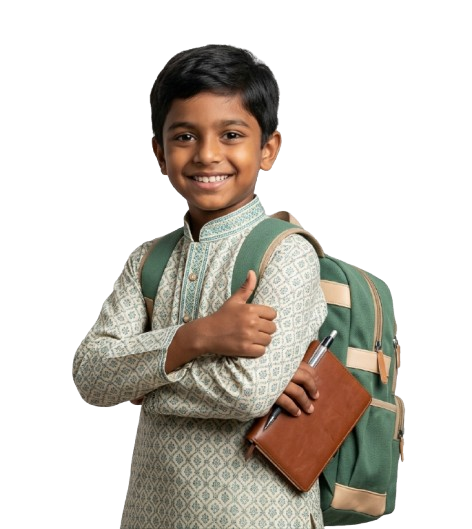
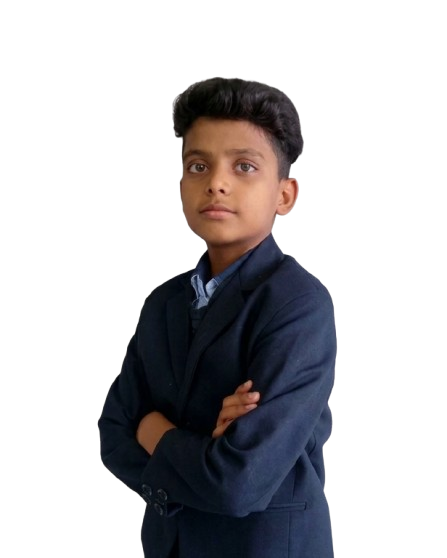
add social media handles and change png

diff --git a/src/components/Location.jsx b/src/components/Location.jsx
@@ -1,4 +1,10 @@
-import { FaPhoneAlt, FaEnvelope, FaMapMarkerAlt } from "react-icons/fa";
+import {
+  FaPhoneAlt,
+  FaEnvelope,
+  FaMapMarkerAlt,
+  FaInstagram,
+  FaFacebookF,
+} from "react-icons/fa";
 
 function Location() {
   return (
@@ -6,18 +12,17 @@ function Location() {
       id="contact"
       className="py-24 px-6"
       style={{
-        background: "linear-gradient(120deg,#f6f8fc 0%,#eef2f7 100%)"
+        background: "linear-gradient(120deg,#f6f8fc 0%,#eef2f7 100%)",
       }}
     >
       <div className="max-w-7xl mx-auto">
-
         {/* Title */}
         <div className="text-center mb-16">
           <h2
             style={{
               fontSize: "clamp(2rem,4vw,3rem)",
               color: "#1a1a1a",
-              fontWeight: "700"
+              fontWeight: "700",
             }}
           >
             Our Location & Contact
@@ -32,7 +37,6 @@ function Location() {
 
         {/* Grid Layout */}
         <div className="grid md:grid-cols-2 gap-12 items-start">
-
           {/* Left Side - Map */}
           <div className="rounded-lg overflow-hidden shadow-lg">
             <iframe
@@ -47,21 +51,20 @@ function Location() {
 
           {/* Right Side - Contact Details */}
           <div className="space-y-6">
-
             <div className="flex items-start gap-4 bg-white p-6 rounded-lg shadow-md">
               <FaMapMarkerAlt size={22} color="#1e56a0" />
               <div>
                 <h4
                   style={{
                     fontSize: "1.1rem",
-                    color: "#1a1a1a"
+                    color: "#1a1a1a",
                   }}
                 >
                   Address
                 </h4>
                 <p
                   style={{
-                    color: "#4a5568"
+                    color: "#4a5568",
                   }}
                 >
                   Balaghat Public School <br />
@@ -77,17 +80,17 @@ function Location() {
                 <h4
                   style={{
                     fontSize: "1.1rem",
-                    color: "#1a1a1a"
+                    color: "#1a1a1a",
                   }}
                 >
                   Phone
                 </h4>
                 <p
                   style={{
-                    color: "#4a5568"
+                    color: "#4a5568",
                   }}
                 >
-                  +91 94229 32722
+                  +91 8888328365
                 </p>
               </div>
             </div>
@@ -98,25 +101,62 @@ function Location() {
                 <h4
                   style={{
                     fontSize: "1.1rem",
-                    color: "#1a1a1a"
+                    color: "#1a1a1a",
                   }}
                 >
                   Email
                 </h4>
                 <p
                   style={{
-                    color: "#4a5568"
+                    color: "#4a5568",
                   }}
                 >
                   balaghatps2013@gmail.com
                 </p>
               </div>
             </div>
+            {/* Social Media */}
+            <div className="flex items-start gap-4 bg-white p-6 rounded-lg shadow-md hover:shadow-lg transition duration-300">
+              <div>
+                <h4
+                  style={{
+                    fontSize: "1.1rem",
+                    color: "#1a1a1a",
+                  }}
+                >
+                  Connect With Us
+                </h4>
 
+                <p className="text-gray-500 text-sm mb-3">
+                  Follow our school on social media for latest updates and
+                  activities.
+                </p>
+
+                <div className="flex gap-3">
+                  {/* Facebook */}
+                  <a
+                    href="https://www.facebook.com/balaghat.public.school.telgaon"
+                    target="_blank"
+                    rel="noopener noreferrer"
+                    className="flex items-center justify-center w-10 h-10 rounded-full bg-blue-100 text-blue-600 hover:bg-blue-600 hover:text-white transition duration-300"
+                  >
+                    <FaFacebookF />
+                  </a>
+
+                  {/* Instagram */}
+                  <a
+                    href="https://www.instagram.com/balaghatpublicschool?igsh=cGQ5d2JubDAzdng4"
+                    target="_blank"
+                    rel="noopener noreferrer"
+                    className="flex items-center justify-center w-10 h-10 rounded-full bg-pink-100 text-pink-600 hover:bg-pink-600 hover:text-white transition duration-300"
+                  >
+                    <FaInstagram />
+                  </a>
+                </div>
+              </div>
+            </div>
           </div>
-
         </div>
-
       </div>
     </section>
   );

diff --git a/src/components/Footer.jsx b/src/components/Footer.jsx
@@ -1,4 +1,4 @@
-import { FaPhoneAlt, FaEnvelope, FaMapMarkerAlt } from "react-icons/fa";
+import { FaPhoneAlt, FaEnvelope, FaMapMarkerAlt, FaFacebookF, FaInstagram } from "react-icons/fa";
 
 function Footer() {
   return (
@@ -13,15 +13,24 @@ function Footer() {
 
         {/* School Info */}
         <div>
-          <h3
-            style={{
-              fontSize: "1.4rem",
-              color: "#ffffff",
-              marginBottom: "10px"
-            }}
-          >
-            Balaghat Public School
-          </h3>
+
+          {/* Logo + Name */}
+          <div className="flex items-center gap-3 mb-4">
+            <img
+              src="/Balaghat_logo.jpeg"
+              alt="Balaghat Public School"
+              className="h-12 w-12 object-contain"
+            />
+
+            <h3
+              style={{
+                fontSize: "1.4rem",
+                color: "#ffffff"
+              }}
+            >
+              Balaghat Public School
+            </h3>
+          </div>
 
           <p
             style={{
@@ -33,6 +42,30 @@ function Footer() {
             quality education and holistic development of students.
             We aim to nurture responsible, confident, and successful citizens.
           </p>
+
+          {/* Social Icons */}
+          <div className="flex gap-4 mt-5">
+
+            <a
+              href="https://www.facebook.com/balaghat.public.school.telgaon"
+              target="_blank"
+              rel="noopener noreferrer"
+              className="bg-gray-700 p-4 rounded-full hover:bg-blue-600 transition"
+            >
+              <FaFacebookF />
+            </a>
+
+            <a
+              href="https://www.instagram.com/balaghatpublicschool?igsh=cGQ5d2JubDAzdng4"
+              target="_blank"
+              rel="noopener noreferrer"
+              className="bg-gray-700 p-4 rounded-full hover:bg-pink-500 transition"
+            >
+              <FaInstagram />
+            </a>
+
+          </div>
+
         </div>
 
         {/* Quick Links */}
@@ -78,7 +111,7 @@ function Footer() {
 
             <div className="flex items-center gap-3">
               <FaPhoneAlt />
-              <p>+91 094229 32722</p>
+              <p>+91 8888328365</p>
             </div>
 
             <div className="flex items-center gap-3">
@@ -94,11 +127,7 @@ function Footer() {
       {/* Bottom Copyright */}
       <div className="border-t border-gray-600 mt-12 pt-6 text-center">
 
-        <p
-          style={{
-            color: "#cbd5f5"
-          }}
-        >
+        <p style={{ color: "#cbd5f5" }}>
           © {new Date().getFullYear()} Balaghat Public School, Telgaon. All Rights Reserved. |
           Developed by{" "}
           <a

diff --git a/src/components/Hero.jsx b/src/components/Hero.jsx
@@ -79,7 +79,7 @@ function Hero() {
         {/* RIGHT IMAGE */}
         <div className="flex justify-center md:justify-end items-end h-full z-10">
           <img
-            src="/model2.png"
+            src="/model1.png"
             alt="Balaghat Public School"
             className="w-[85%] sm:w-full max-w-xs sm:max-w-md md:max-w-lg object-contain"
           />

diff --git a/src/components/Gallery.jsx b/src/components/Gallery.jsx
@@ -8,13 +8,13 @@ function Gallery() {
   const images = [
     "/balaghat_school.png",
     "/Gallery1.jpeg",
+    "/Gallery6.jpeg",
     "/Gallery3.jpeg",
     "/Gallery19.jpeg",
     "/Gallery8.jpeg",
     "/Gallery11.jpeg",
     "/Gallery5.jpeg",
     "/Gallery13.jpeg",
-    "/Gallery6.jpeg",
     "/Gallery9.jpeg",
     "/Gallery10.jpeg",
     "/Gallery12.jpeg",

diff --git a/src/App.jsx b/src/App.jsx
@@ -16,7 +16,7 @@ export default function App() {
       <Header />
 
       <FloatingWhatsApp
-        phoneNumber="919309140606"
+        phoneNumber="8888328365"
         accountName="Balaghat Public School"
         avatar="/Balaghat_logo.jpeg"
         chatMessage="Welcome to Balaghat Public School"
